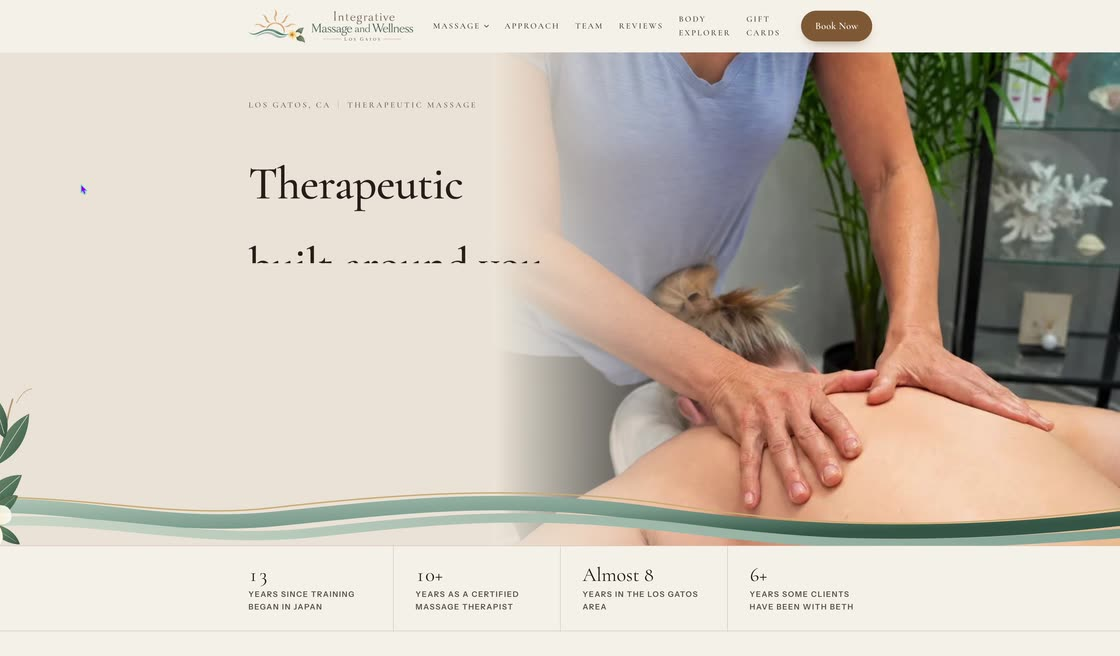
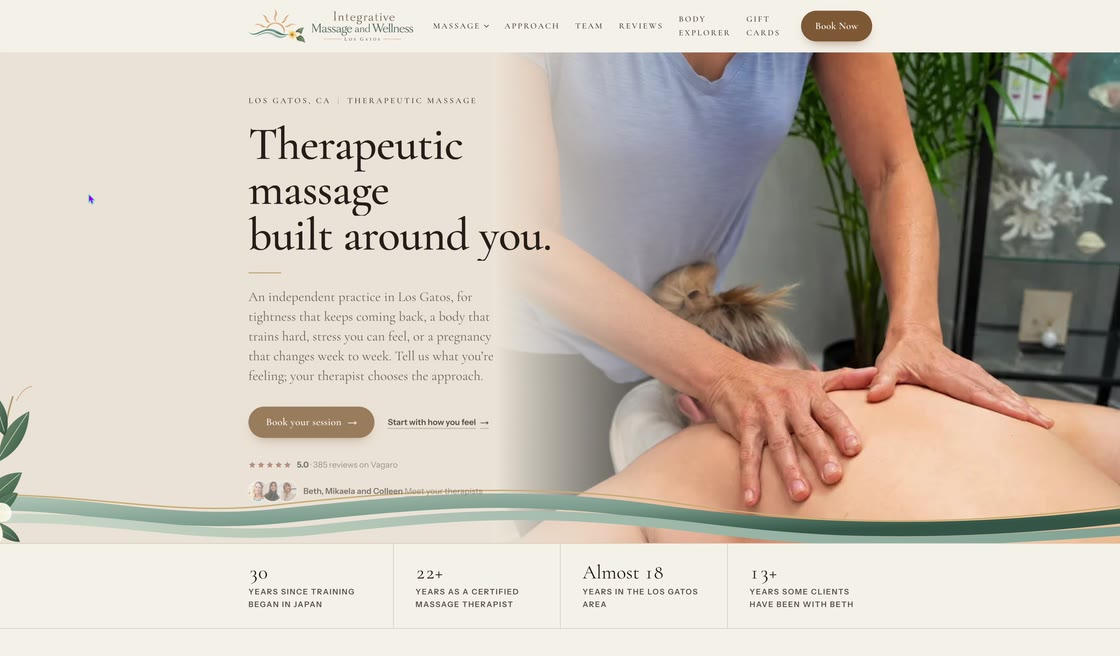
Universe orbit: three items with a clean website frame, sized to stay inside its card

diff --git a/index.html b/index.html
@@ -430,24 +430,23 @@ video:fullscreen{object-fit:contain;border-radius:0;aspect-ratio:auto;width:100%
 .vanity li.win svg{inset:0;width:100%;height:100%}
 .vanity li:nth-child(2) svg.on .mark{animation-delay:.4s}.vanity li:nth-child(3) svg.on .mark{animation-delay:.7s}.vanity li.win svg.on .mark{animation-delay:1.1s}
 .rule{font-family:'Montserrat',sans-serif;font-weight:700;font-size:18px;line-height:1.45;color:var(--navy);padding-left:16px;border-left:4px solid #F1A35B}
-.orbit-wrap{display:flex;justify-content:center;padding:58px 36px 66px}
-.orbit{position:relative;width:250px;height:250px;flex:none}
+.orbit-wrap{display:flex;justify-content:center;padding:72px 0}
+.orbit{position:relative;width:220px;height:220px;flex:none}
 .orbit::before{content:"";position:absolute;inset:0;border-radius:50%;border:2px dashed #A9CCE6}
-.orbit b{position:absolute;inset:50% auto auto 50%;width:112px;height:112px;margin:-56px 0 0 -56px;border-radius:50%;display:flex;align-items:center;justify-content:center;background:#F8F4EA;border:1.5px solid #E4DBC8;box-shadow:0 16px 30px -12px rgba(20,39,78,.45)}
+.orbit b{position:absolute;inset:50% auto auto 50%;width:100px;height:100px;margin:-50px 0 0 -50px;border-radius:50%;display:flex;align-items:center;justify-content:center;background:#F8F4EA;border:1.5px solid #E4DBC8;box-shadow:0 16px 30px -12px rgba(20,39,78,.45)}
 .orbit b img{width:78%;height:auto;display:block}
 .orbit i{position:absolute;inset:0;animation:spin 60s linear infinite}
 .orbit span{position:absolute;display:block;border-radius:10px;background:#fff;border:2px solid #fff;box-shadow:0 12px 24px -10px rgba(20,39,78,.55);animation:spin 60s linear infinite reverse}
-.orbit span img{display:block;width:100%;height:100%;object-fit:cover;object-position:top;border-radius:8px}
+.orbit span img{display:block;width:100%;height:100%;object-fit:cover;object-position:top left;border-radius:8px}
 .orbit em{position:absolute;left:50%;bottom:-11px;transform:translateX(-50%);padding:3px 9px;border-radius:999px;background:var(--navy);font-family:'Montserrat',sans-serif;font-style:normal;font-weight:700;font-size:10px;letter-spacing:.04em;color:#fff;white-space:nowrap}
-.orbit .o-web{width:124px;height:76px}
-.orbit .o-v{width:62px;height:108px}
-.orbit span:nth-child(1){left:calc(50% - 62px);top:-38px}
-.orbit span:nth-child(2){right:-31px;top:calc(50% - 54px)}
-.orbit span:nth-child(3){left:calc(50% - 31px);bottom:-54px}
-.orbit span:nth-child(4){left:-31px;top:calc(50% - 54px)}
+.orbit .o-web{width:140px;height:84px}
+.orbit .o-v{width:64px;height:112px}
+.orbit span:nth-child(1){left:40px;top:-42px}
+.orbit span:nth-child(2){left:173px;top:109px}
+.orbit span:nth-child(3){left:-17px;top:109px}
 @keyframes spin{to{transform:rotate(360deg)}}
 @media (max-width:900px){.belief{grid-template-columns:minmax(0,1fr) 300px;gap:10px 28px;padding:30px}}
-@media (max-width:620px){.beliefs{margin-top:52px}.belief{grid-template-columns:minmax(0,1fr);padding:26px 22px}.orbit-wrap{padding:62px 0 70px}.vanity{margin-top:6px}}
+@media (max-width:620px){.beliefs{margin-top:52px}.belief{grid-template-columns:minmax(0,1fr);padding:26px 22px}.orbit-wrap{padding:66px 0}.orbit{width:190px;height:190px}.orbit .o-web{width:120px;height:72px}.orbit .o-v{width:56px;height:98px}.orbit span:nth-child(1){left:35px;top:-36px}.orbit span:nth-child(2){left:149px;top:94px}.orbit span:nth-child(3){left:-15px;top:94px}.orbit b{width:86px;height:86px;margin:-43px 0 0 -43px}.vanity{margin-top:6px}}
 
 /* How it works */
 .steps{display:grid;gap:22px;grid-template-columns:repeat(auto-fit,minmax(min(300px,100%),1fr));counter-reset:s}
@@ -927,7 +926,6 @@ footer p{color:#C9D6E8;font-size:16px}
               <span class="o-web"><img src="/work/site-imw.jpg" alt="" loading="lazy"><em>Website</em></span>
               <span class="o-v"><img src="/work/imw-ad-1.jpg" alt="" loading="lazy"><em>Video ad</em></span>
               <span class="o-v"><img src="/work/imw-story-1.jpg" alt="" loading="lazy"><em>Organic</em></span>
-              <span class="o-v"><img src="/work/imw-ad-3.jpg" alt="" loading="lazy"><em>Offer ad</em></span>
             </i>
           </div>
         </div>
